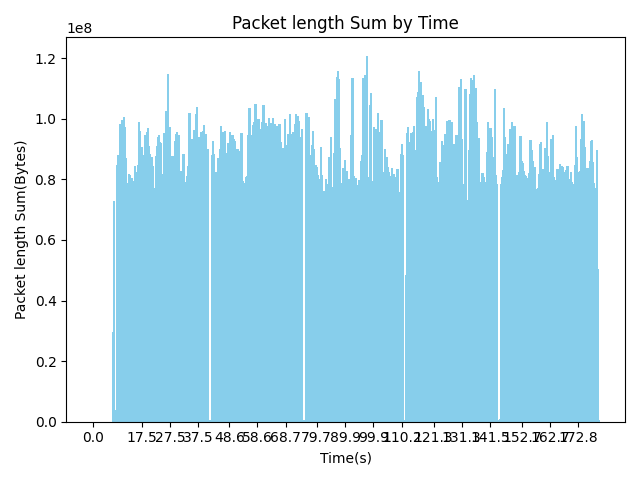
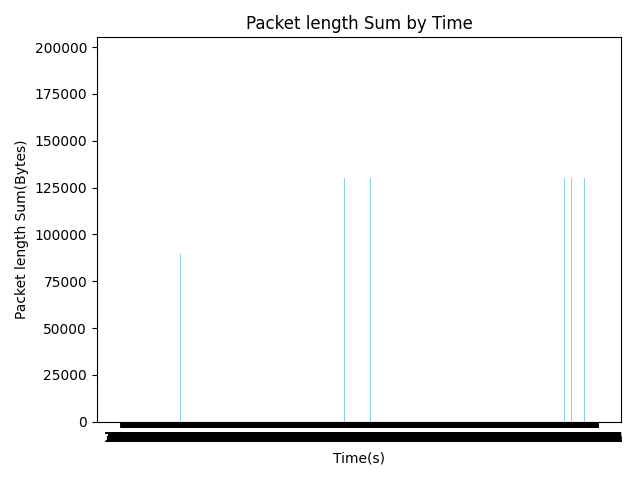
Update: for 10 epoch

diff --git a/distributed/minGPT-ddp/mingpt/parse_by_time.py b/distributed/minGPT-ddp/mingpt/parse_by_time.py
@@ -36,10 +36,12 @@ for line in lines:
     if '[P.]' in line and 'length' in line:
         parts = line.split()
         time_str = parts[0]  # 时间字符串
-        time_str = time_str[:10]
+        time_str = time_str[:14]
         length_index = parts.index('length')  # 查找 'length' 的位置
         x_index = length_index + 1  # 数字的位置在 'length' 之后
-        if x_index < len(parts):
+        if x_index < len(parts) :
+            if not parts[x_index].isdigit():
+                parts[x_index] = parts[x_index][:-1]
             x = float(parts[x_index])
             if x != 0:
                 # 将数字累加到对应时间点
